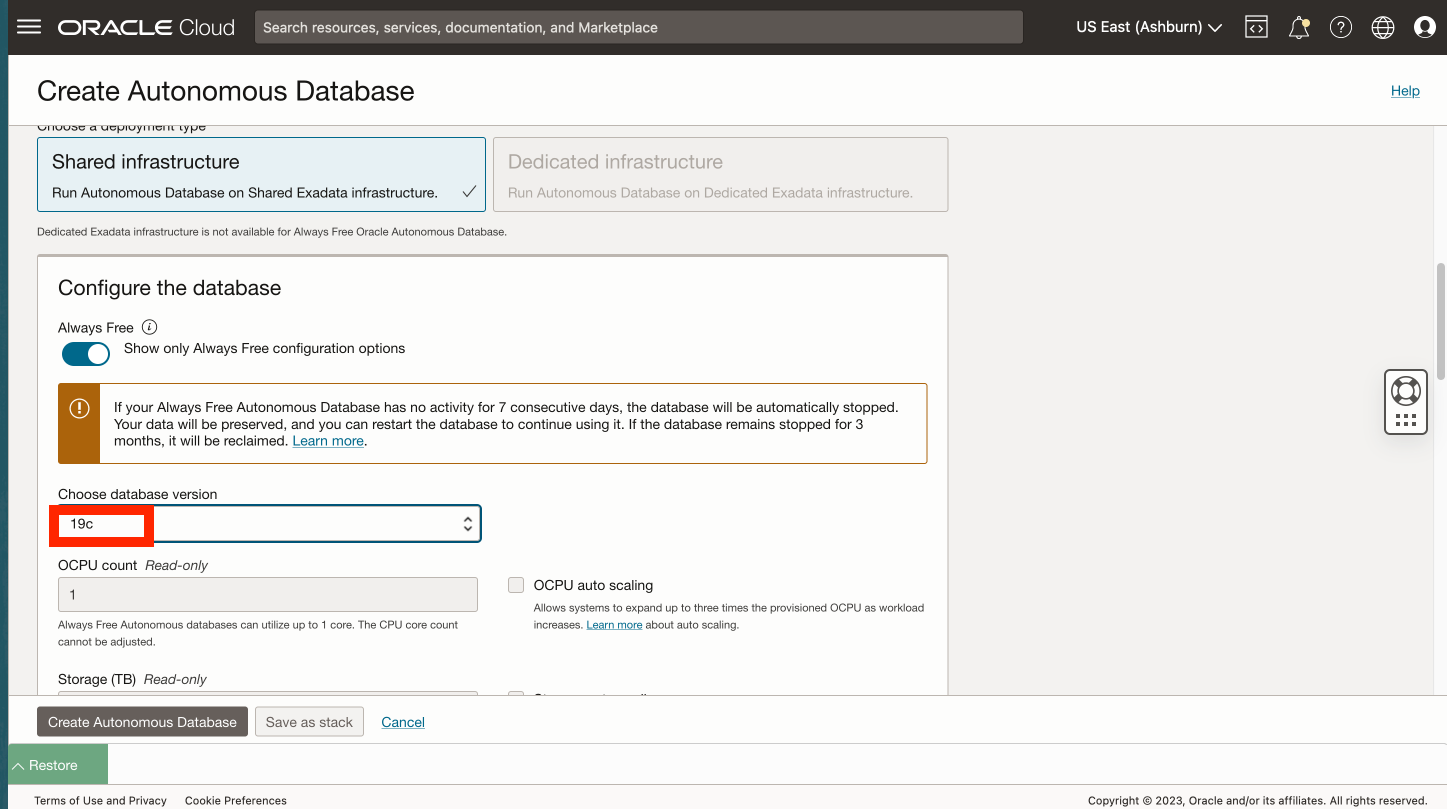
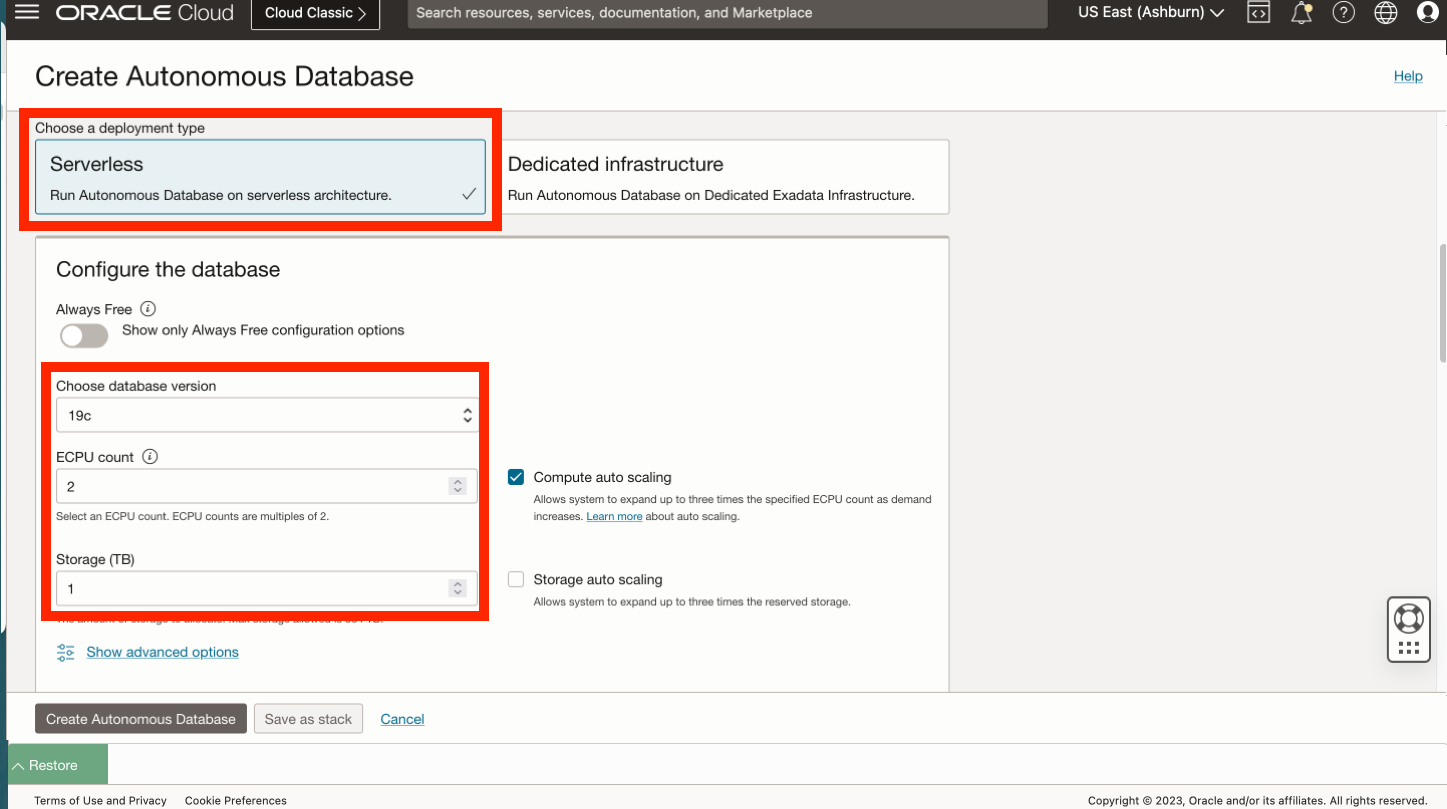
Updated adb ocpu to ecpu
Updated adb ocpu to ecpu

diff --git a/spatial-python/create-adb/create-adb.md b/spatial-python/create-adb/create-adb.md
@@ -38,7 +38,7 @@ Estimated Lab Time: 5 minutes
 
    ![Create ADW](images/adb-03.png) 
 
-2. For database version select **19c**.
+2. For deployment type leave the default **Serverless**. Also leave the defaults for version (19c), ECPU count (2), and storage (1TB). Then scroll down.
    ![Create ADW](images/adb-04.png) 
 
 3. Enter and confirm a password for the database ADMIN user. In the next step you will need the IP address of your compute instance. This is because you will be creating to a connection from Python to Autonomous Database using a simple method that does not require an Oracle Client install or Cloud Wallet. To use this method you must pre-configure your Autonomous Database to allow access from the Python host compute. Click on the restore button to expand Cloud Shell.

diff --git a/spatial-python/workshops/pinpoint-fraud/introduction/introduction.md b/spatial-python/workshops/pinpoint-fraud/introduction/introduction.md
@@ -23,7 +23,7 @@ The python-oracledb driver is an open source Python module that enables programs
 
 ### Prerequisites
 
-- Experience with SQL and Python is helpful but not required.
+- Experience with SQL and Python is helpful but not required
 
 
 ## Acknowledgements
